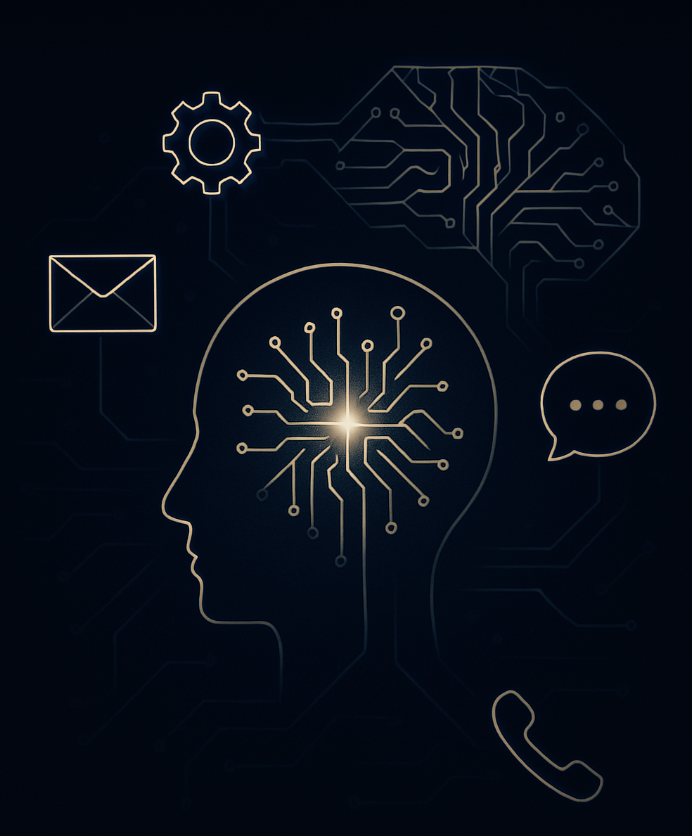
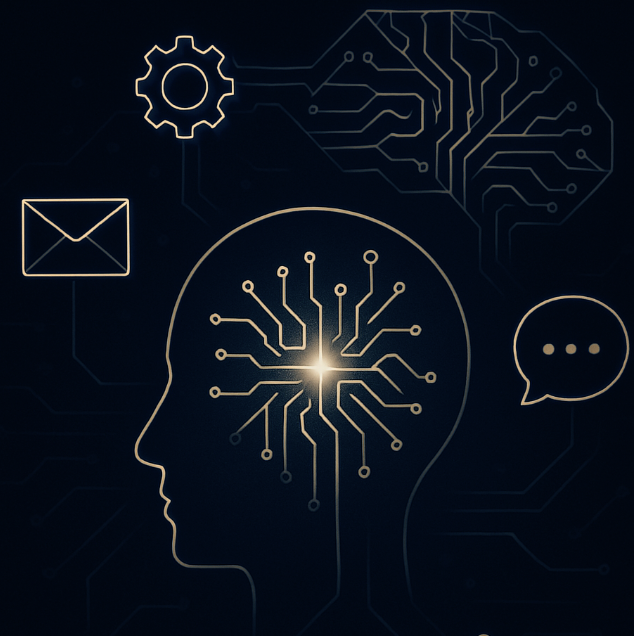
Aggiornate immagini nella pagina Portfolio

diff --git a/src/App.tsx b/src/App.tsx
@@ -124,7 +124,7 @@ function App() {
                       🔬 My research interests lie in Computer Vision, AI-driven automation, and data analysis. My latest projects include Visual Tracking in Spinning Top Simulations and Machine Learning applications in Medical Imaging.
                     </p>
                     <p className={`text-lg ${isDarkMode ? 'text-gray-300' : 'text-gray-700'}`}>
-                      🛠 I'm the Co-Founder & Chief AI Solutions Architect at Martes AI, where I develop AI-driven automation tools for business processes. I have experience working with automation platforms like Make, n8n, and Voiceflow.
+                      🛠 I'm the Co-Founder & Chief AI Solutions Architect at <a href="https://www.martes-ai.com" target="_blank" rel="noopener noreferrer" className={`${isDarkMode ? 'text-blue-400 hover:text-blue-300' : 'text-blue-600 hover:text-blue-700'} transition-colors`}>Martes AI</a>, dove sviluppo strumenti di automazione basati su AI per processi aziendali. Ho esperienza con piattaforme di automazione come Make, n8n e Voiceflow.
                     </p>
                     <p className={`text-lg ${isDarkMode ? 'text-gray-300' : 'text-gray-700'}`}>
                       📊 Previously, I worked as a Data Analyst intern at SAS Institute, focusing on Customer Intelligence and CRM analytics, and as an Account Manager Assistant at Randstad.

diff --git a/src/pages/Portfolio.tsx b/src/pages/Portfolio.tsx
@@ -39,7 +39,7 @@ function Portfolio() {
             <Link to="/research-projects" className={`${isDarkMode ? 'bg-gray-800 hover:bg-gray-700' : 'bg-white hover:bg-gray-50'} rounded-lg shadow-lg p-8 transition-all duration-300`}>
               <div className="h-40 mb-6 overflow-hidden rounded-lg">
                 <img 
-                  src="https://images.unsplash.com/photo-1501139083538-0139583c060f?ixlib=rb-4.0.3&auto=format&fit=crop&w=800&q=80" 
+                  src="/assets/research.png" 
                   alt="Research & AI Projects" 
                   className="w-full h-full object-cover object-center hover:scale-105 transition-transform duration-300"
                 />
@@ -61,7 +61,7 @@ function Portfolio() {
             <Link to="/automation-projects" className={`${isDarkMode ? 'bg-gray-800 hover:bg-gray-700' : 'bg-white hover:bg-gray-50'} rounded-lg shadow-lg p-8 transition-all duration-300`}>
               <div className="h-40 mb-6 overflow-hidden rounded-lg">
                 <img 
-                  src="https://images.unsplash.com/photo-1661956602139-ec64991b8b16?ixlib=rb-4.0.3&auto=format&fit=crop&w=800&q=80" 
+                  src="/assets/automation.png" 
                   alt="AI Automation Solutions" 
                   className="w-full h-full object-cover object-center hover:scale-105 transition-transform duration-300"
                 />
